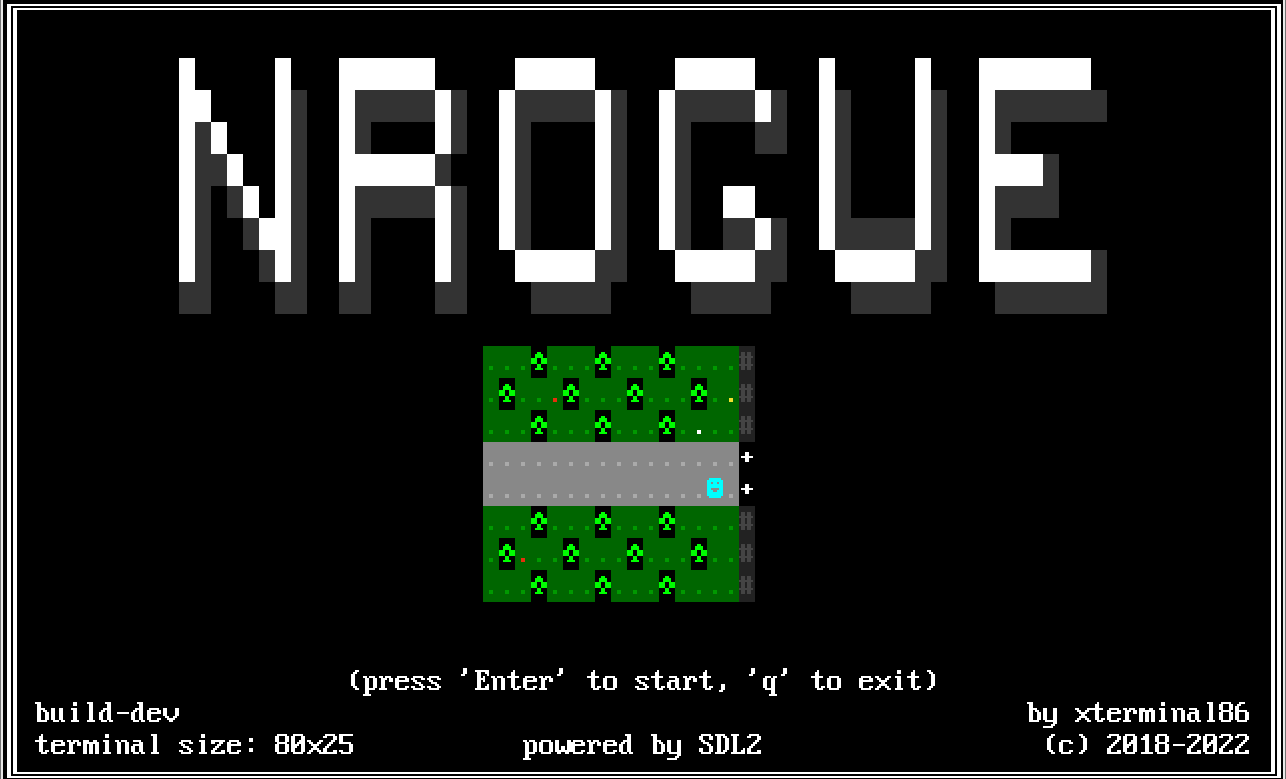
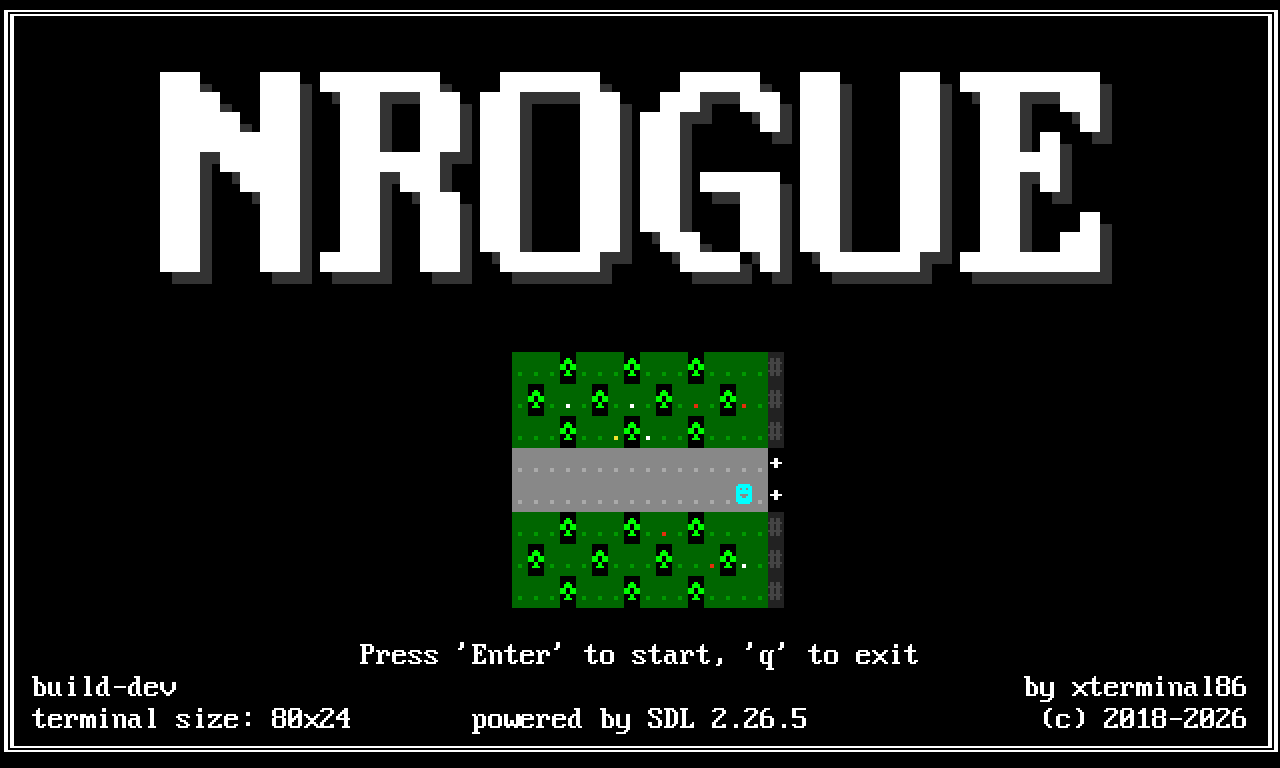
feat: updated title image screenshot

Changed region(s): [[0.125, 0.0625, 0.875, 0.4062], [0.0, 0.0, 1.0, 1.0], [0.375, 0.4375, 0.625, 0.8125]]

diff --git a/src/states/menu-state.h b/src/states/menu-state.h
@@ -36,7 +36,7 @@ class MenuState : public GameState
   std::vector<std::string> _signature =
   {
     "by xterminal86",
-    "(c) 2018-2023"
+    "(c) 2018-2026"
   };
 
   const std::string _welcome         = "Press 'Enter' to start, 'q' to exit";
